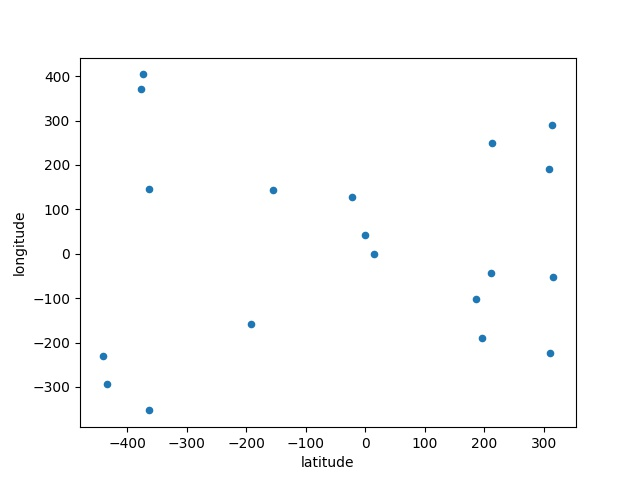
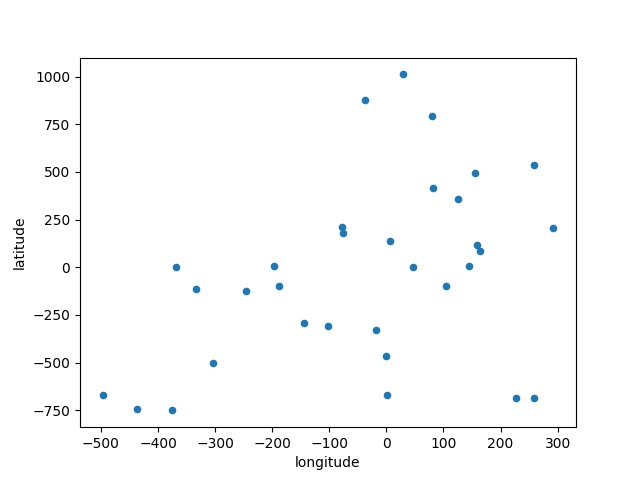
data added

diff --git a/poketsp/process.py b/poketsp/process.py
@@ -12,7 +12,7 @@ data['longitude'] *= aug
 long_med = data['longitude'].median()
 data['longitude'] -= long_med
 
-data.plot(x='latitude',y='longitude',kind='scatter')
+data.plot(x='longitude', y='latitude', kind='scatter')
 plt.savefig('graph.jpg')
 
 data.to_csv('normal.csv')
